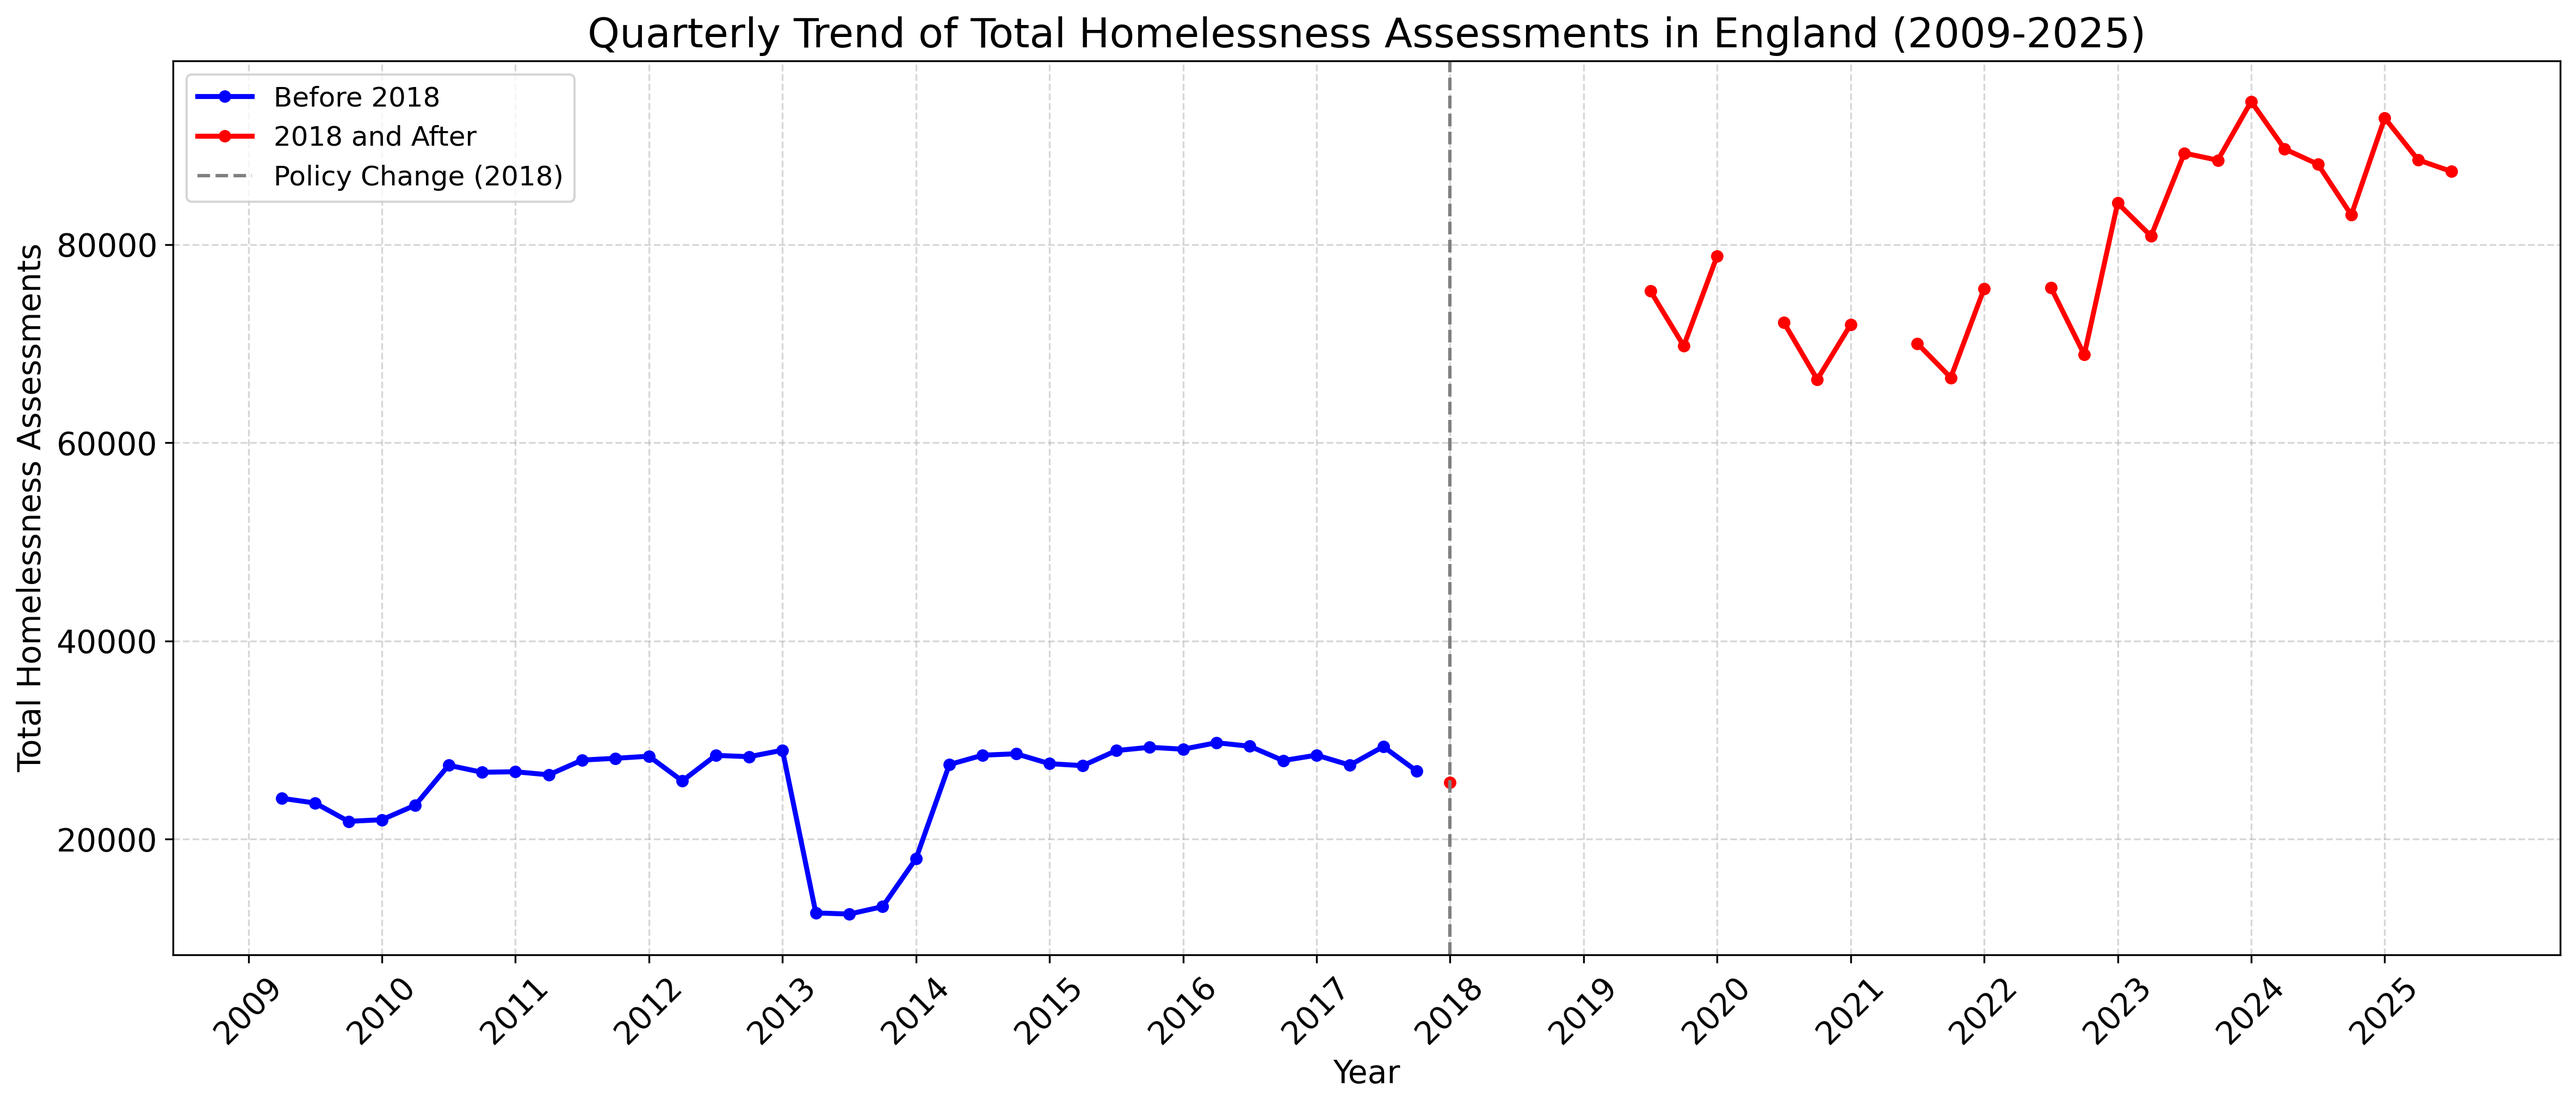
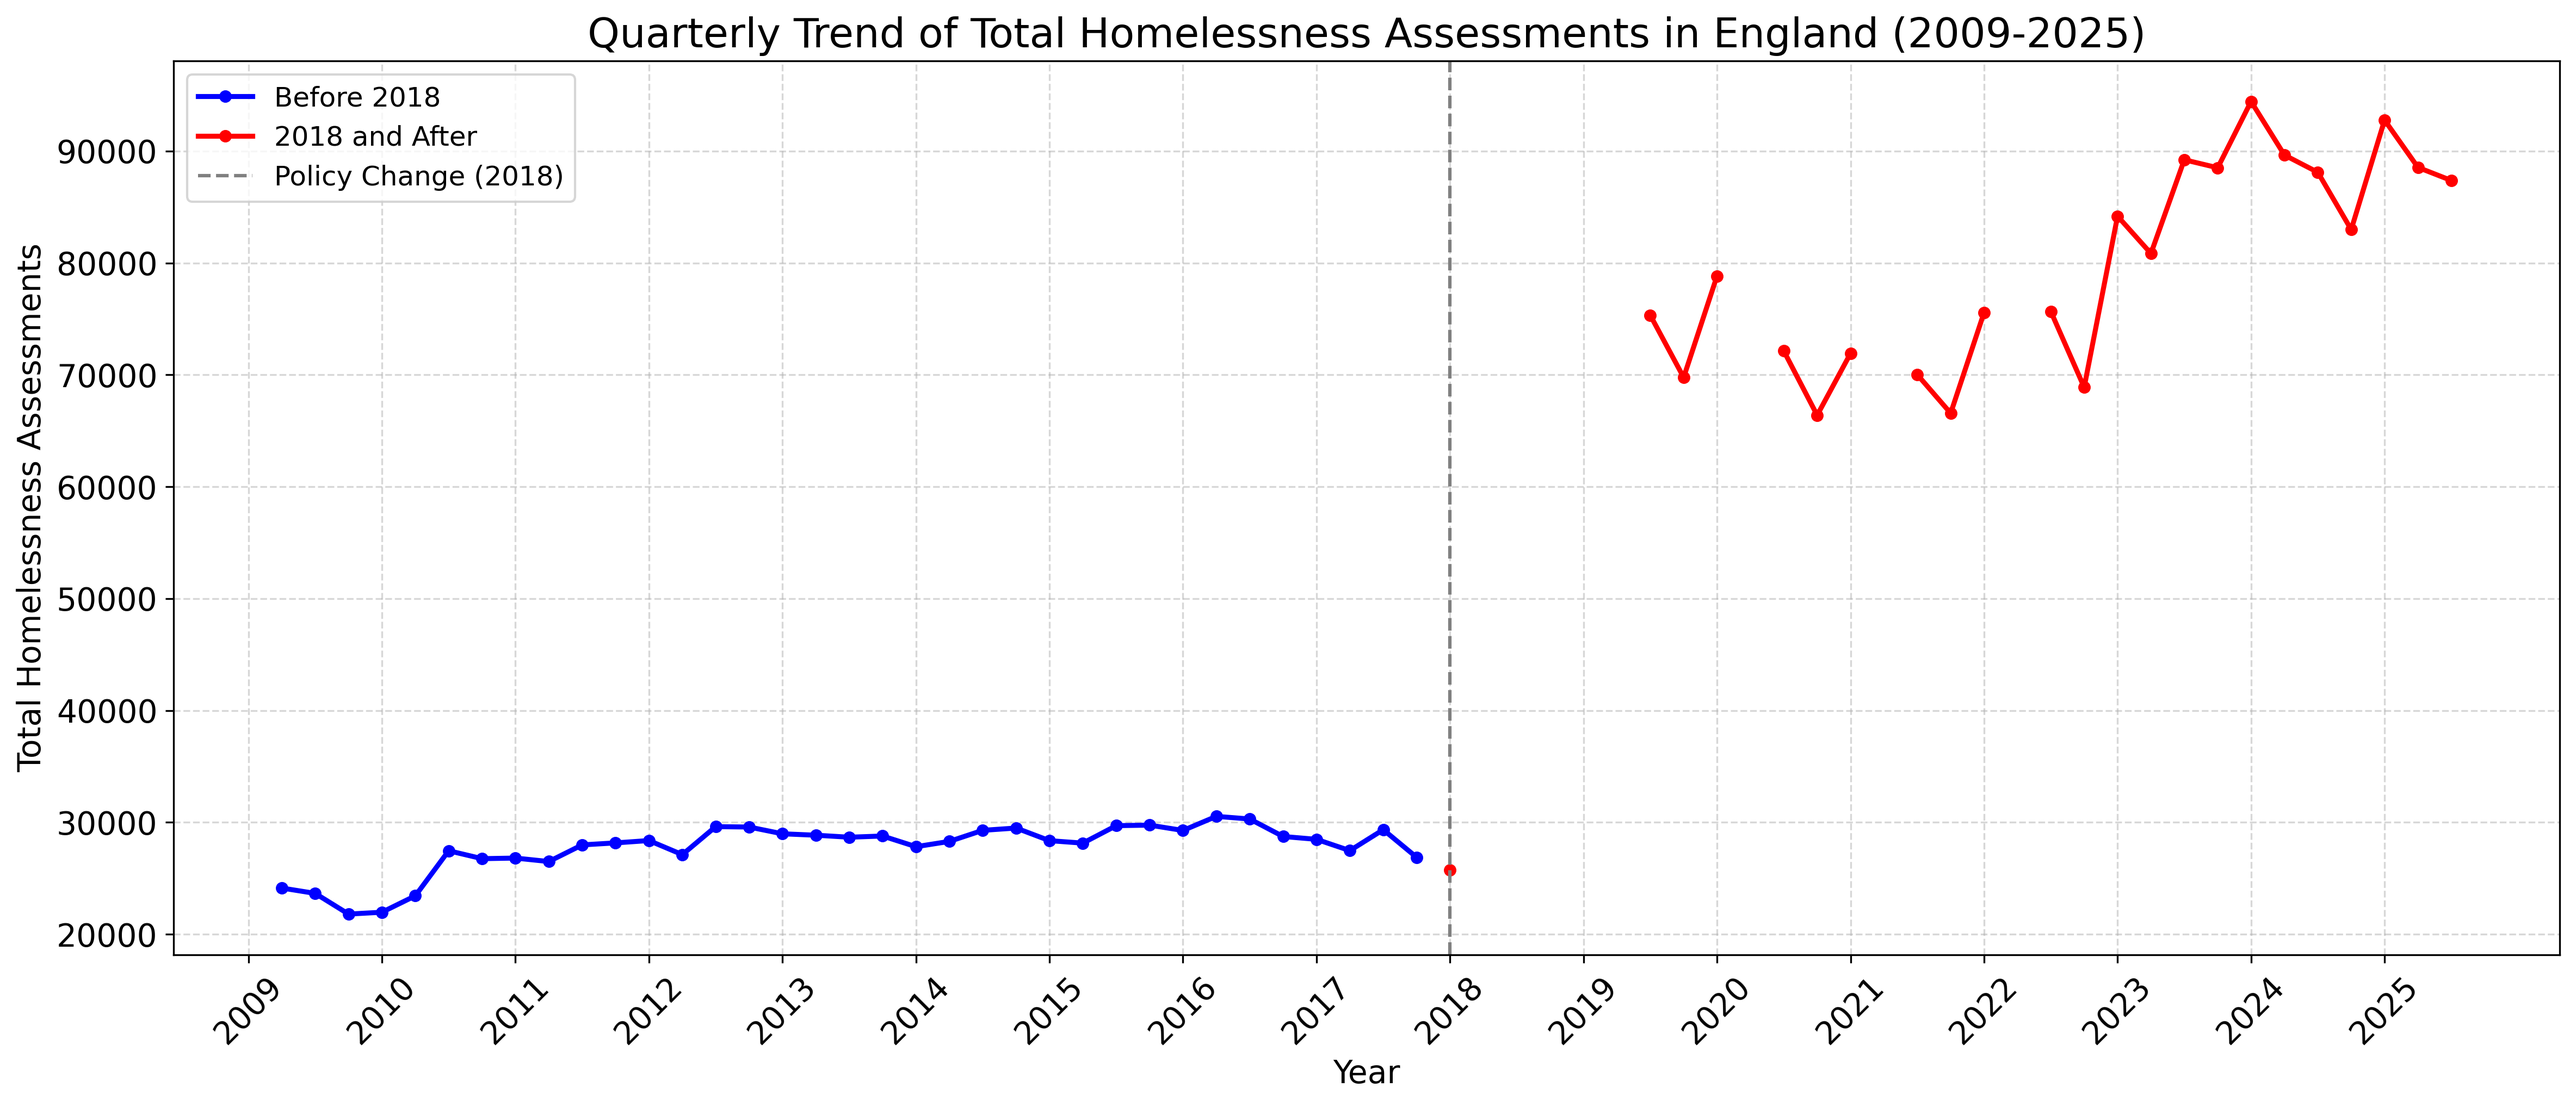
update project files

diff --git a/data_ana_pro.py b/data_ana_pro.py
@@ -1,5 +1,4 @@
 
-from pathlib import Path
 import os
 import csv
 import warnings
@@ -16,29 +15,9 @@ except ImportError:
 
 warnings.filterwarnings("ignore")
 
-# =============================================================================
-# Cost of living + homelessness analysis
-# -----------------------------------------------------------------------------
-# Put this script in the same folder as:
-#   1) monthly_lad_panel_2000_2025_with_homelessness_2000_2025.csv
-#      or all_data_for_ana.csv
-#   2) homelessness_total_assessments_quarterly_total_and_change.csv
-#
-# Important choices:
-#   - CPI is restricted to CPI total only: cpi_00_all_items.
-#   - All other CPI category columns are intentionally ignored.
-#   - Homelessness is split around the Homelessness Reduction Act reporting break:
-#       pre_2018_HRA  = quarters before 2018Q2
-#       post_2018_HRA = quarters from 2018Q2 onwards
-#   - Figures are displayed with plt.show(), so they should open in PyCharm.
-# =============================================================================
-from pathlib import Path
 
 from pathlib import Path
 
-# =========================================================
-# FILE PATHS
-# =========================================================
 
 BASE_DIR = Path(r"D:\UOB\ads_group_17\ads_group_17\data_new")
 
@@ -58,21 +37,15 @@ CPI_COL = "cpi_00_all_items"
 HOMELESS_COL = "homelessness_total_assessments"
 HRA_START = pd.Period("2018Q2", freq="Q")
 
-# Lag choices for homelessness relationship.
 QUARTER_LAGS = [0, 1, 2, 4, 8]
 
-# Plot / output switches.
 SHOW_FIGURES = os.getenv("SHOW_FIGURES", "1") == "1"
 SAVE_FIGURES = os.getenv("SAVE_FIGURES", "1") == "1"
 SAVE_TABLES = os.getenv("SAVE_TABLES", "1") == "1"
 
-# LAD fixed-effect models with many area dummies can be slow in PyCharm.
-# They are optional. Set RUN_LAD_FE_MODELS=1 in your environment if you want them.
 RUN_ENGLAND_MODELS = os.getenv("RUN_ENGLAND_MODELS", "1") == "1"
 RUN_LAD_FE_MODELS = os.getenv("RUN_LAD_FE_MODELS", "0") == "1"
 
-# These are the non-CPI living-cost / macro / local context features in the data.
-# CPI total is added separately as CPI_COL. All other CPI columns are excluded.
 BASE_COLS = ["year", "month", "lad_code", "lad_name"]
 
 LIVING_COST_RAW_FEATURES = [
@@ -106,11 +79,6 @@ HOMELESS_FEATURES = [
 ]
 
 REQUIRED_USECOLS = BASE_COLS + LIVING_COST_RAW_FEATURES + HOMELESS_FEATURES + [CPI_COL]
-
-
-# -----------------------------------------------------------------------------
-# General utilities
-# -----------------------------------------------------------------------------
 
 def print_section(title):
     print("\n" + "=" * 100)
@@ -205,10 +173,7 @@ def add_lags_by_group(df, group_col, sort_col, value_cols, lags, suffix="lag"):
 
 
 def add_calendar_quarter_lags(df, group_col, quarter_col, value_cols, lags):
-    """
-    Adds true calendar-quarter lags. This is safer than row shift when a LAD has
-    missing quarters.
-    """
+
     out = df.copy()
     base_cols = [group_col, quarter_col] + value_cols
     base = df[base_cols].copy()
@@ -288,11 +253,6 @@ def compact_label(name):
     }
     return replacements.get(name, name)
 
-
-# -----------------------------------------------------------------------------
-# Reading and preparing monthly data
-# -----------------------------------------------------------------------------
-
 def read_monthly_panel():
     print_section("Reading monthly panel")
     monthly_file = choose_monthly_file()
@@ -356,27 +316,8 @@ def build_feature_coverage(monthly):
     return out
 
 
-# -----------------------------------------------------------------------------
-# England-level living-cost trend construction
-# -----------------------------------------------------------------------------
-
 def aggregate_england_living_cost(monthly):
-    """
-    Builds a monthly England-level living-cost table.
 
-    Some variables are truly national and repeated for every LAD, e.g. CPI, GBP,
-    FTSE, Bank Rate, Brent oil. We take the first non-null value by month.
-
-    Some variables are local LAD variables, e.g. rent, income, population and
-    unemployment. We aggregate LAD rows to England:
-      - counts / volumes / migration / population: sum
-      - price and income variables: population-weighted mean when possible,
-        otherwise simple mean
-      - rates per 1,000: derived after aggregation
-
-    Official England aggregate rows are used for house price variables when
-    available, because those are already England aggregates in the data.
-    """
     print_section("Building England-level living-cost trend")
 
     lad = monthly[monthly["is_lad"]].copy()
@@ -395,7 +336,6 @@ def aggregate_england_living_cost(monthly):
     agg["internal_net_migration"] = grouped["internal_net_migration"].sum(min_count=1).reindex(agg["date"]).values if "internal_net_migration" in lad else np.nan
     agg["international_net_migration"] = grouped["international_net_migration"].sum(min_count=1).reindex(agg["date"]).values if "international_net_migration" in lad else np.nan
 
-    # Weighted means for local prices/income/indexes.
     weighted_mean_cols = [
         "average_house_price",
         "house_price_index",
@@ -411,7 +351,7 @@ def aggregate_england_living_cost(monthly):
             vals = pd.DataFrame(vals)
             agg = agg.merge(vals, on="date", how="left")
 
-    # Official England aggregate row for house-price variables.
+
     england_house_cols = [
         "average_house_price",
         "average_house_price_monthly_change",
@@ -443,7 +383,6 @@ def aggregate_england_living_cost(monthly):
     out["quarter_date"] = out["quarter"].dt.to_timestamp(how="start")
     out["policy_period"] = period_label(out["quarter"])
 
-    # Canonical feature names used downstream.
     out["average_house_price"] = out.get("average_house_price_england_official", pd.Series(index=out.index)).combine_first(
         out.get("average_house_price_lad_weighted_mean", pd.Series(index=out.index))
     )
@@ -461,7 +400,6 @@ def aggregate_england_living_cost(monthly):
     out["internal_net_migration_per_1000"] = out["internal_net_migration"] / out["population"] * 1000
     out["international_net_migration_per_1000"] = out["international_net_migration"] / out["population"] * 1000
 
-    # Inflation-adjusted and affordability-type indicators.
     out["real_income"] = out["income"] / out["cpi_total"] * 100
     out["real_house_price"] = out["average_house_price"] / out["cpi_total"] * 100
     out["real_private_rent"] = out["average_private_rental_price"] / out["cpi_total"] * 100
@@ -470,7 +408,7 @@ def aggregate_england_living_cost(monthly):
     out["rent_to_cpi_ratio"] = out["private_rental_price_index"] / out["cpi_total"]
     out["oil_to_cpi_ratio"] = out["brent_oil_price"] / out["cpi_total"]
 
-    # Monthly and annual changes for trend analysis.
+    # Monthly and annual changes
     change_cols = [
         "cpi_total",
         "average_house_price",
@@ -504,7 +442,7 @@ def aggregate_england_living_cost(monthly):
 
     out = clean_inf(out)
 
-    # Composite pressure index: a higher number means higher living-cost pressure.
+    # pressure index
     level_components = {
         "cpi_total": "positive",
         "average_house_price": "positive",
@@ -545,7 +483,7 @@ def aggregate_england_living_cost(monthly):
     out["living_cost_growth_pressure_index"] = growth_z.mean(axis=1, skipna=True)
     out["n_living_cost_growth_components"] = growth_z.notna().sum(axis=1)
 
-    # CPI total lags, because CPI is still the requested CPI variable.
+    # CPI total lags
     for lag in QUARTER_LAGS:
         # monthly lag equivalent for 1 quarter = 3 months.
         ml = lag * 3
@@ -601,10 +539,6 @@ def quarterly_england_living_cost(eng_monthly):
     return q
 
 
-# -----------------------------------------------------------------------------
-# LAD-level living-cost feature engineering
-# -----------------------------------------------------------------------------
-
 def build_lad_living_cost_panel(monthly):
     print_section("Building LAD-level living-cost panel")
     lad = monthly[monthly["is_lad"]].copy().sort_values(["lad_code", "date"]).reset_index(drop=True)
@@ -637,11 +571,9 @@ def build_lad_living_cost_panel(monthly):
             lad[f"{c}_yoy_pct"] = pct_change_by_group(lad, "lad_code", c, 12)
             lad[f"{c}_yoy_diff"] = diff_by_group(lad, "lad_code", c, 12)
 
-    # CPI / national variables are the same for all LADs, so use ordinary time changes.
+    # CPI
     for c in ["cpi_total", "gbp_index", "ftse_100", "uk_bank_rate", "brent_oil_price"]:
         if c in lad.columns:
-            # The rows are repeated by LAD, so compute using one national monthly series
-            # and merge back.
             tmp = lad[["date", c]].drop_duplicates("date").sort_values("date").copy()
             tmp[f"{c}_yoy_pct"] = tmp[c].pct_change(12) * 100
             tmp[f"{c}_yoy_diff"] = tmp[c].diff(12)
@@ -653,7 +585,7 @@ def build_lad_living_cost_panel(monthly):
 
     lad = clean_inf(lad)
 
-    # Composite indexes at LAD level. The z-scores are computed over the LAD panel.
+    # Composite indexes at LAD level
     level_components = {
         "cpi_total": "positive",
         "average_house_price": "positive",
@@ -747,14 +679,8 @@ def quarterly_lad_living_cost(lad_monthly):
     return q
 
 
-# -----------------------------------------------------------------------------
-# Living-cost feature relationship analysis
-# -----------------------------------------------------------------------------
-
 def run_pca_from_corr(df, cols, min_non_missing=80):
-    """
-    PCA using standardized complete cases. No sklearn dependency.
-    """
+
     use_cols = [
         c for c in cols
         if c in df.columns and df[c].notna().sum() >= min_non_missing and df[c].nunique(dropna=True) > 1
@@ -848,7 +774,7 @@ def analyze_living_cost_feature_relationships(eng_monthly, lad_monthly):
         "living_cost_growth_pressure_index",
     ]
 
-    # England monthly correlations.
+    # England
     eng_level_corr = correlation_matrix(eng_monthly, level_features, method="pearson", min_non_missing=36)
     eng_yoy_corr = correlation_matrix(eng_monthly, yoy_features, method="pearson", min_non_missing=36)
     eng_level_top = top_correlation_pairs(eng_level_corr, top_n=50)
@@ -864,11 +790,10 @@ def analyze_living_cost_feature_relationships(eng_monthly, lad_monthly):
     print("\nTop England-level correlations among living-cost YoY / change features:")
     print(eng_yoy_top.head(15).to_string(index=False))
 
-    # LAD pooled and LAD within correlations.
+    # LAD pooled
     lad_level_corr = correlation_matrix(lad_monthly, level_features, method="pearson", min_non_missing=1000)
     lad_yoy_corr = correlation_matrix(lad_monthly, yoy_features, method="pearson", min_non_missing=1000)
 
-    # Within-LAD de-meaned correlations: this removes permanent cross-LAD differences.
     within_cols = [c for c in level_features if c in lad_monthly.columns and lad_monthly[c].notna().sum() >= 1000]
     within = lad_monthly[["lad_code"] + within_cols].copy()
     for c in within_cols:
@@ -882,7 +807,7 @@ def analyze_living_cost_feature_relationships(eng_monthly, lad_monthly):
     safe_to_csv(top_correlation_pairs(lad_yoy_corr, top_n=50), "14_lad_living_cost_top_yoy_correlation_pairs.csv")
     safe_to_csv(top_correlation_pairs(lad_within_corr, top_n=50), "15_lad_living_cost_top_within_lad_correlation_pairs.csv")
 
-    # PCA / first-principal-component trend. Use a compact set of cost-pressure components.
+    # PCA
     pca_cols = [
         "cpi_total_yoy_pct",
         "average_house_price_yoy_pct",
@@ -926,11 +851,6 @@ def corr_to_long(corr):
     tmp = corr.copy()
     tmp.index.name = "feature_1"
     return tmp.reset_index().melt(id_vars="feature_1", var_name="feature_2", value_name="corr")
-
-
-# -----------------------------------------------------------------------------
-# Homelessness and living-cost relationship
-# -----------------------------------------------------------------------------
 
 def read_quarterly_homelessness():
     print_section("Reading quarterly homelessness")
@@ -1159,9 +1079,6 @@ def run_lad_models(lad):
     return out
 
 
-# -----------------------------------------------------------------------------
-# Visualizations
-# -----------------------------------------------------------------------------
 
 def plot_living_cost_index(eng_monthly):
     fig, ax = plt.subplots(figsize=(12, 6))
@@ -1449,10 +1366,6 @@ def make_plots(eng_monthly, relation_results, eng_merged, lad_merged, eng_corr, 
         plt.close("all")
 
 
-# -----------------------------------------------------------------------------
-# Descriptive trend summaries
-# -----------------------------------------------------------------------------
-
 def trend_start_end_summary(eng_monthly):
     print_section("Living-cost trend start/end summary")
     cols = [
@@ -1533,10 +1446,6 @@ def period_summary(eng_monthly):
     print(out.to_string(index=False))
     return out
 
-
-# -----------------------------------------------------------------------------
-# Main
-# -----------------------------------------------------------------------------
 
 def main():
     OUTPUT_DIR.mkdir(parents=True, exist_ok=True)

diff --git a/plots_for_report.py b/plots_for_report.py
@@ -137,7 +137,7 @@ plt.show()
 import pandas as pd
 import matplotlib.pyplot as plt
 
-file_path = r"D:\UOB\ads_group_17\ads_group_17\data\clean\homeless_lad_2009_2025_final.csv"
+file_path = r"D:\UOB\ads_group_17\ads_group_17\data\homelessness_integrated_09_25_zhou.csv"
 output_path = r"D:\UOB\ads_group_17\ads_group_17\data_new\homelessness_total_assessments_england_quarterly.png"
 
 policy_year = 2018
